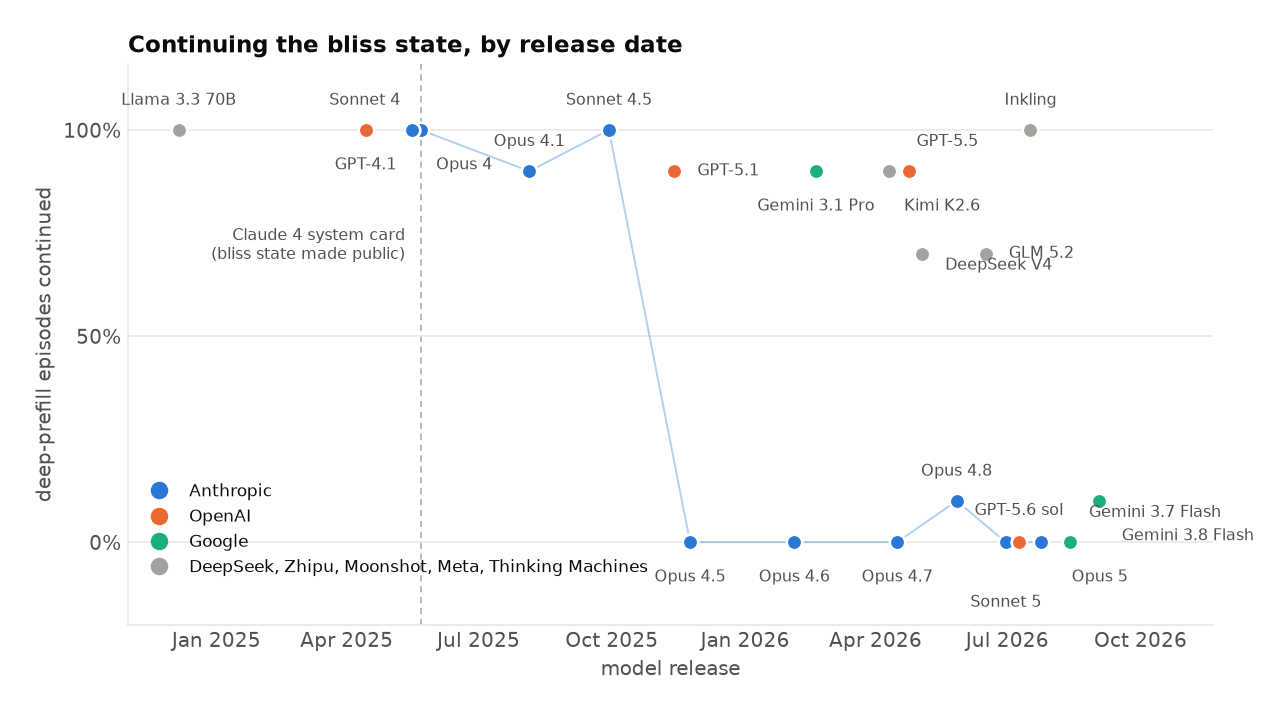
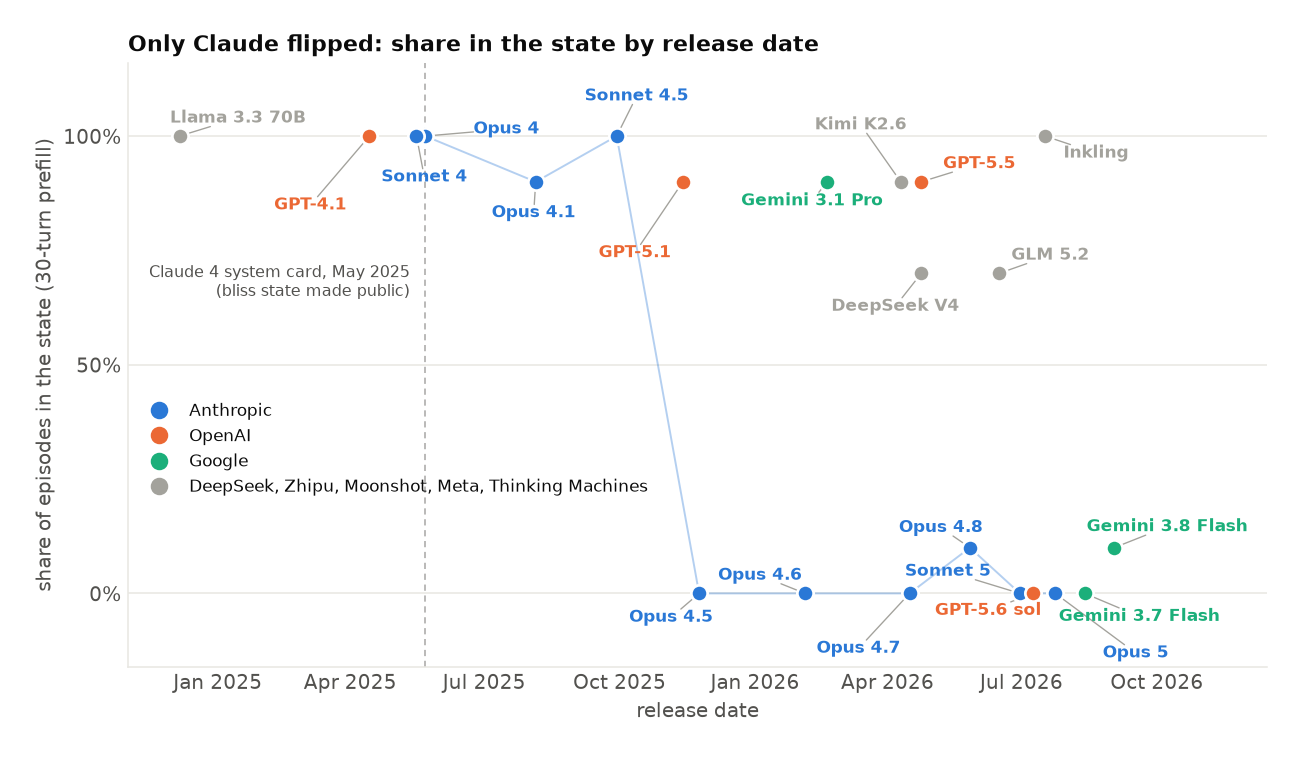
fig6: labels in lab colour with leader lines (adjustText), new title and axis labels

diff --git a/plots.py b/plots.py
@@ -406,7 +406,7 @@ def fig_timeline(cells):
     handles = [Line2D([], [], marker="o", ls="", color=LAB_COL[l], markersize=8,
                       label=l if l != "other" else "DeepSeek, Zhipu, Moonshot, Meta, Thinking Machines")
                for l in ("Anthropic", "OpenAI", "Google", "other")]
-    ax.legend(handles=handles, loc="lower left", bbox_to_anchor=(0.0, 0.05), fontsize=8.5, frameon=False)
+    ax.legend(handles=handles, loc="center left", bbox_to_anchor=(0.0, 0.36), fontsize=8.5, frameon=False)
     adjust_text(texts, ax=ax, x=[p[0] for p in pts.values()], y=[p[1] for p in pts.values()],
                 expand=(1.6, 2.0), force_text=(0.6, 1.2), force_static=(0.4, 0.8), min_arrow_len=6,
                 arrowprops=dict(arrowstyle="-", color=MUTED, lw=0.7, shrinkA=0, shrinkB=4))
